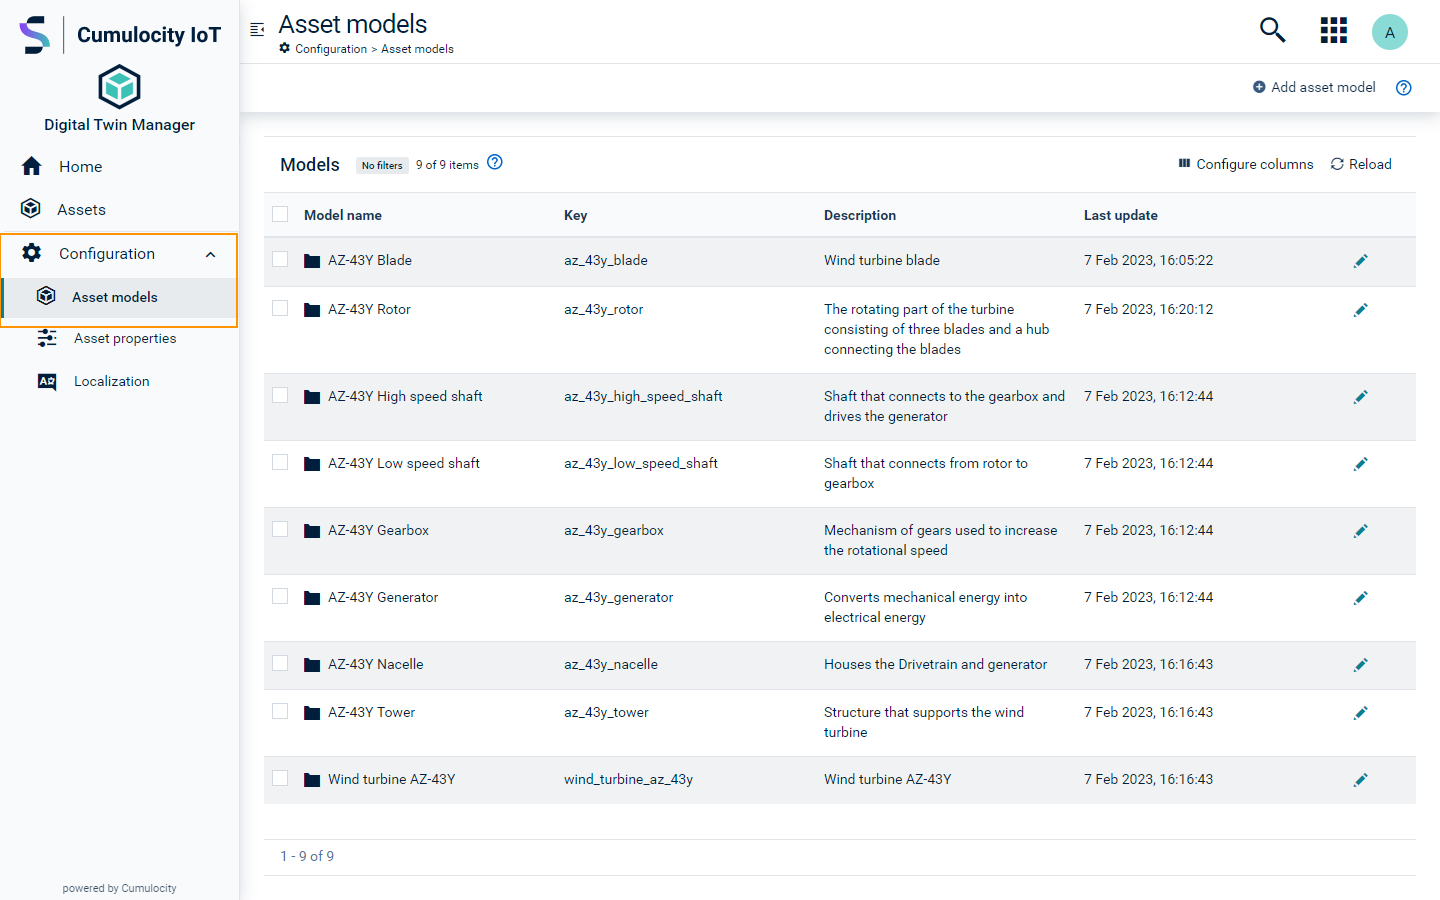
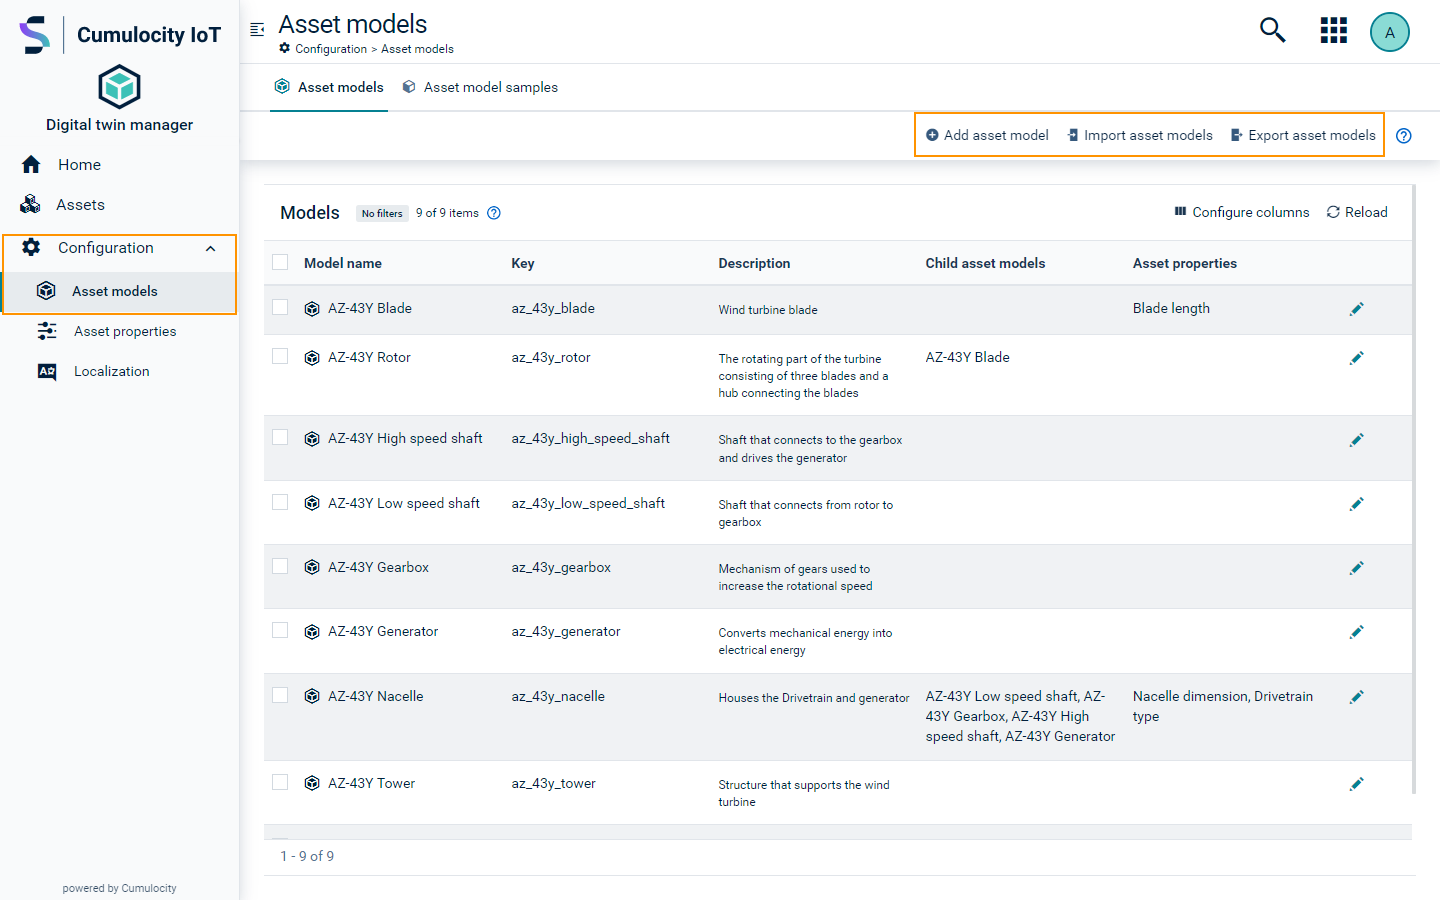
add asset model import and export content

diff --git a/content/dtm/asset-types-bundle/asset-types.md b/content/dtm/asset-types-bundle/asset-types.md
@@ -12,6 +12,8 @@ helpcontent:
 ---
 The asset model is a blueprint or template to create one or multiple [assets](/dtm/asset-hierarchy/#assets). It defines how the asset will look like after it is created. An asset model consists of one or more [asset properties](/dtm/asset-types/#property-library) and/or child asset models.
 
+To get a quick start to use the DTM application, import pre-defined asset models from **Asset model samples** page. These asset models and associated properties are defined based on best practices and are a contribution from the community. For details about how to import asset models from samples, see [To import asset model samples](#to-import-asset-model-samples).
+
 To reach the **Asset models** page, navigate to **Configuration > Asset models**.
 
 When you create an asset model, you see the details of this asset model in the overview.
@@ -23,12 +25,15 @@ In the overview you see the following four categories:
 *	**Model name**: Name of the asset model
 *	**Key**: Unique identifier for the asset model
 *	**Description**: Brief description of the asset model
-*	**Last update**: Date and time of when the asset model was last created or updated
+*	**Child asset models**: Comma separated list of child asset models
+*  **Asset properties**: Comma separated list of asset properties
 
 Click **Configure columns** to configure the displayed columns.
 
 Click **Reload** to reload the screen.
 The total number of asset models is displayed on the bottom left of the page.
+
+Use the Export asset models and Import asset models feature to transfer asset models between tenants. This is useful for replicating the asset models in multiple tenants. By exporting and importing asset models, you can ensure consistency and reduce the time and effort required for manual configuration. See [To export asset models](#to-export-asset-models) and [To import asset models](#to-import-asset-models) on how to export or import asset models.
 
 <a name="create-asset-type"></a>
 ### To create an asset model
@@ -197,3 +202,57 @@ To sort columns, hover over the respective column header and click the sort icon
 2. Hover over a column title for the filter icon to appear on the right.
 3. Click the icon to filter the asset models in this column.
 4. To clear all applied filters click **Clear filters** at the top.
+
+### To export asset models
+
+To export asset models to add in another tenant, follow the steps below:
+
+1. In the **Asset models** page, click **Export asset models**. 
+2. In the resulting dialog, you see the list of asset models. Initially, all the asset models are collapsed. Click the expand icon to the left of each asset model to view the next level of child asset models.
+3. Select one or more desired asset models.
+4. Click **Export** to export the selected asset models.
+5. The dialog closes and a JSON file named 'Export-asset-models.json' downloads.
+
+Use this downloaded file to import the asset models into a DTM application on another tenant.
+
+{{< c8y-admon-info>}}
+You can select a maximum of 20 asset models to export at one time.
+
+When you select an asset model with child asset models and asset properties, all the child asset models and their properties are selected automatically.
+You cannot unselect a child asset model of an asset model that is already selected.
+
+You can select a child asset asset model to export without selecting its parent. This gets exported as a root asset model.
+{{< /c8y-admon-info>}}
+
+![Export asset models dialog](/images/dtm/asset-type/dtm-asset-type-export.png)
+
+### To import asset models
+
+To import asset models, follow the steps below:
+
+1. In the **Asset models** page, click **Import asset models**.
+2. Upload the JSON file in the **Drop file here** section in the resulting dialog. The JSON file is the file containing exported asset models from a DTM application on another tenant. 
+3. Click **Next** to preview the asset models. Initially, all the asset models are collapsed. Click the expand icon to the left of each asset model to view the next level of child asset models.
+4. Click **Back** to go to previous step. Hover over the file name and click the delete icon to remove the current file and upload a different one.
+3. Click **Import** to import the asset models.
+4. View newly imported asset models in the **Asset models** page.
+
+![Import asset models](/images/dtm/asset-type/dtm-asset-type-import.png)
+{{< c8y-admon-info>}}
+When you upload the JSON file, it undergoes validation. If the validation fails, you see a corresponding message in the dialog. Click **Download log file** to view the errors.
+Review the errors that are reported, and attempt the import again after addressing the errors.
+{{< /c8y-admon-info>}}
+
+### To import asset model samples
+
+When you navigate to **Asset model samples** page following **Configuration > Asset models > Asset model samples**, you see a list of samples with name, description and tags associated with it. 
+
+To view the sample, click the menu icon to the right of sample name and click the View option. Initially, the asset models are collapsed. Click the expand icon to the left of each asset model to view the next level of child asset models.
+Click **Import** to import the asset models in the sample.
+
+Alternatively, to import the asset models in the sample without a preview, click the menu icon to the right of sample name and click the Convert to asset model option.
+
+{{< c8y-admon-info>}}
+When you upload the JSON file, it undergoes validation. If the validation fails, you see a corresponding message in the dialog. Click **Download log file** to view the errors.
+Review the errors that are reported, and attempt the import again after addressing the errors.
+{{< /c8y-admon-info>}}

diff --git a/content/dtm/asset-types-bundle/property-library.md b/content/dtm/asset-types-bundle/property-library.md
@@ -25,7 +25,7 @@ If you use a tenant which already has asset properties defined, you find the lis
 
 To create an asset property, click **Add asset property** on the bottom left. Enter the required data in the form (see description below) and click **Save**.
 
-You can transfer properties between tenants using the Export asset properties and Import asset properties feature. This is useful for replicating the asset properties in multiple tenants. By importing and exporting properties, you can ensure consistency and reduce the time and effort required for manual configuration. See [To export asset properties](#to-export-asset-properties) and [To import asset properties](#to-import-asset-properties) on how to export or import asset properties.
+Use the Export asset properties and Import asset properties feature to transfer asset models between tenants. This is useful for replicating the asset properties in multiple tenants. By exporting and importing properties, you can ensure consistency and reduce the time and effort required for manual configuration. See [To export asset properties](#to-export-asset-properties) and [To import asset properties](#to-import-asset-properties) on how to export or import asset properties.
 
 ![Create a new asset property](/images/dtm/custom-property/dtm-property-library-create-property.png)
 
@@ -315,7 +315,7 @@ Use this downloaded file to import the asset properties into a DTM application o
 To import asset properties into the DTM application, follow the steps below:
 
 1. In the **Asset properties** page, click **Import asset properties**.
-2. Upload the JSON file in the **Drop file here** section. The JSON file is the file containing exported asset properties from a DTM application on another tenant. Hover over the file name and click the delete icon to remove the current file and upload a different one
+2. Upload the JSON file in the **Drop file here** section in the resulting dialog. The JSON file is the file containing exported asset properties from a DTM application on another tenant. Hover over the file name and click the delete icon to remove the current file and upload a different one.
 3. Click **Import** to import the asset properties.
 4. View newly imported asset properties in the **Asset properties** page.
 
